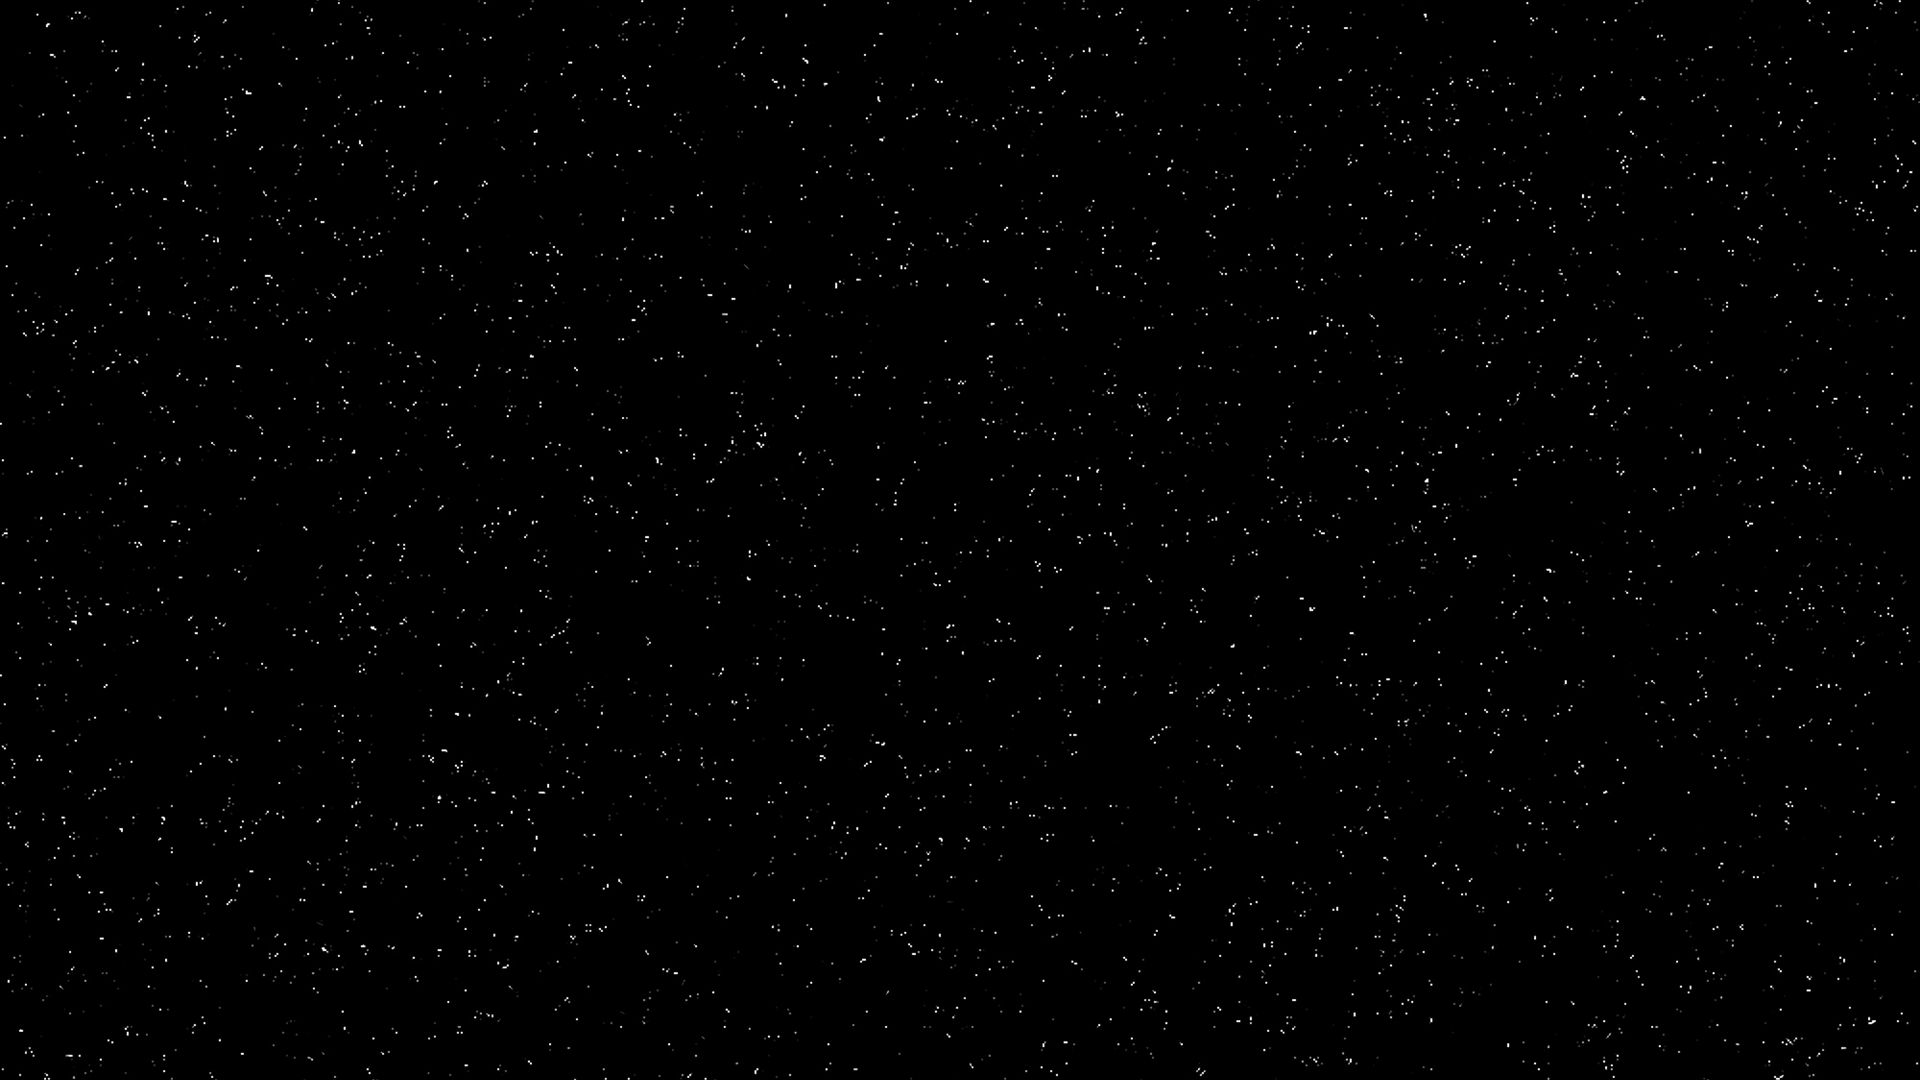
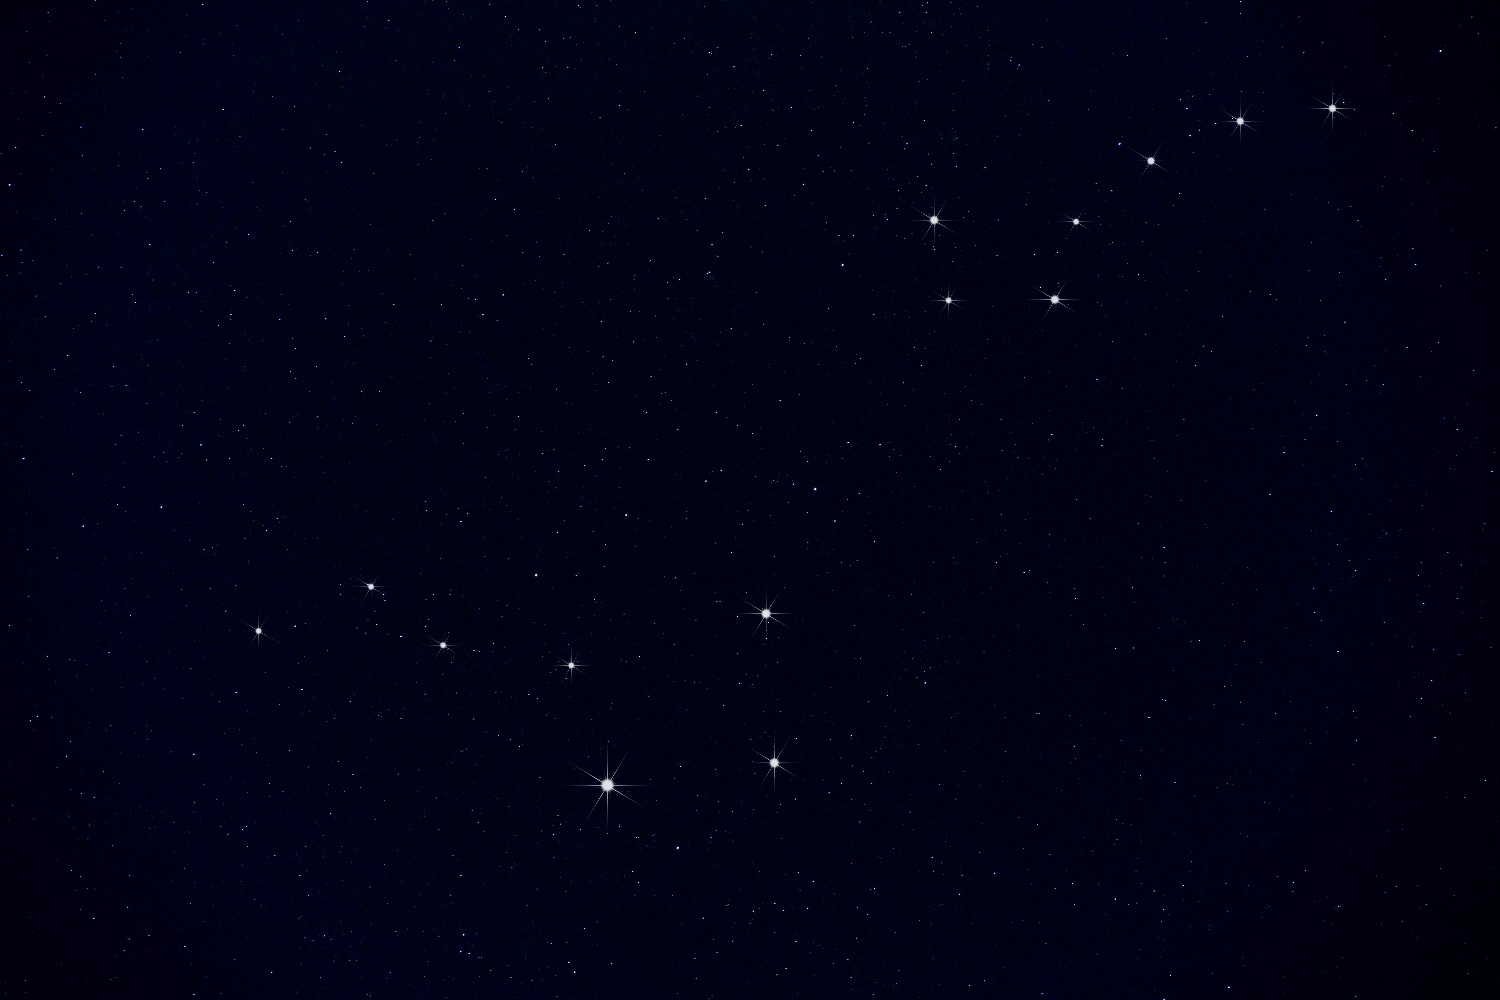
fixed background, added orbit lines and stuff

diff --git a/src/script.js b/src/script.js
@@ -2,7 +2,7 @@ import * as THREE from 'three';
 import { OrbitControls } from 'three/examples/jsm/controls/OrbitControls.js';
 
 // Renderer kurulumu
-const renderer = new THREE.WebGLRenderer();
+const renderer = new THREE.WebGLRenderer({alpha:true});
 renderer.setSize(window.innerWidth, window.innerHeight);
 document.body.appendChild(renderer.domElement);
 
@@ -12,28 +12,23 @@ const camera = new THREE.PerspectiveCamera(
     45,
     window.innerWidth / window.innerHeight,
     0.1,
-    1000
+    5000 // Far clipping distance artırıldı
 );
-camera.position.set(-90, 140, 140);
+camera.position.set(-90, 140, 1000); // Kamera daha uzağa konumlandırıldı
 
 // OrbitControls (Fare ile gezdirme)
 const orbit = new OrbitControls(camera, renderer.domElement);
 orbit.update();
 
-// Arkaplan Yıldızlar
+// Texture Loader
 const textureLoader = new THREE.TextureLoader();
 
-const backgroundTexture = textureLoader.load('./src/img/stars.jpg');
-scene.background = backgroundTexture;
-
-
-backgroundTexture.wrapS = THREE.RepeatWrapping;
-backgroundTexture.wrapT = THREE.RepeatWrapping;
-backgroundTexture.repeat.set(2, 2);  // Tekrar sayısını ayarlar
-
+// Işık Kaynakları
+const ambientLight = new THREE.AmbientLight(0xffffff, 2);
+scene.add(ambientLight);
 
 // Güneş
-const sunGeo = new THREE.SphereGeometry(12, 30, 30);
+const sunGeo = new THREE.SphereGeometry(16, 32, 32);
 const sunMat = new THREE.MeshBasicMaterial({
     map: textureLoader.load('./src/img/sun.jpg')
 });
@@ -52,21 +47,16 @@ function createPlanet(size, texture, position) {
     return planet;
 }
 
-// Işık Kaynakları
-
-const ambientLight = new THREE.AmbientLight(0xffffff, 2);
-scene.add(ambientLight);
-
 
 // Gezegenler
-const mercury = createPlanet(3, './src/img/mercury.jpg', 20);
-const venus = createPlanet(5, './src/img/venus.jpg', 40);
-const earth = createPlanet(6, './src/img/earth.jpg', 60);
-const mars = createPlanet(4, './src/img/mars.jpg', 80);
-const jupiter = createPlanet(10, './src/img/jupiter.jpg', 100);
-const saturn = createPlanet(9, './src/img/saturn.jpg', 120);
-const uranus = createPlanet(7, './src/img/uranus.jpg', 140);
-const neptune = createPlanet(7, './src/img/neptune.jpg', 160);
+const mercury = createPlanet(0.38, './src/img/mercury.jpg', 12);
+const venus = createPlanet(0.95, './src/img/venus.jpg', 22);
+const earth = createPlanet(1, './src/img/earth.jpg', 30);
+const mars = createPlanet(0.53, './src/img/mars.jpg', 45);
+const jupiter = createPlanet(11.2, './src/img/jupiter.jpg', 156);
+const saturn = createPlanet(9.45, './src/img/saturn.jpg', 286);
+const uranus = createPlanet(4.0, './src/img/uranus.jpg', 576);
+const neptune = createPlanet(3.88, './src/img/neptune.jpg', 900);
 
 // Pivotlar (Yörüngesel Dönüş İçin)
 const mercuryPivot = new THREE.Object3D();
@@ -99,27 +89,44 @@ uranusPivot.add(uranus);
 neptunePivot.add(neptune);
 
 // Gezegenleri konumlandır (Güneşten uzaklaştır)
-mercury.position.set(30, 0, 0);
-venus.position.set(60, 0, 0);
-earth.position.set(90, 0, 0);
-mars.position.set(120, 0, 0);
-jupiter.position.set(150, 0, 0);
-saturn.position.set(180, 0, 0);
-uranus.position.set(210, 0, 0);
-neptune.position.set(240, 0, 0);
+mercury.position.set(22, 0, 0);
+venus.position.set(32, 0, 0);
+earth.position.set(40, 0, 0);
+mars.position.set(55, 0, 0);
+jupiter.position.set(166, 0, 0);
+saturn.position.set(296, 0, 0);
+uranus.position.set(586, 0, 0);
+neptune.position.set(910, 0, 0);
+
+/// Ay için yörünge çizgisi oluşturma
+const moonOrbitRadius = 5; // Ay yörünge yarıçapı
+const moonOrbitCurve = new THREE.EllipseCurve(
+    0, 0, // Dünya'nın merkezi
+    moonOrbitRadius, moonOrbitRadius, // Elips yarıçapları (daire için aynı)
+    0, 2 * Math.PI, // Başlangıç ve bitiş açıları
+    false // Saat yönünde çizim
+);
+
+const moonOrbitPoints = moonOrbitCurve.getPoints(100); // Yörünge üzerinde 100 nokta
+const moonOrbitGeometry = new THREE.BufferGeometry().setFromPoints(
+    moonOrbitPoints.map((p) => new THREE.Vector3(p.x, 0, p.y)) // Y'yi XZ düzlemine taşı
+);
+
+const moonOrbitMaterial = new THREE.LineBasicMaterial({ color: 0xffffff });
+const moonOrbitLine = new THREE.Line(moonOrbitGeometry, moonOrbitMaterial);
+earth.add(moonOrbitLine); // Yörüngeyi Dünya'ya ekle
 
 // Ay (Moon) Pivot ve Ay
 const moonPivot = new THREE.Object3D();
-earthPivot.add(moonPivot);  // Ay'ı Dünya'nın pivotuna ekle
+earthPivot.add(moonPivot);
 
-const moon = createPlanet(1.6, './src/img/moon.jpg', 10);  // Ayı oluştur
-moonPivot.add(moon);  // Ay'ı pivotun içine ekle
-moon.position.set(10, 0, 0);  // Ay'ı Dünya'nın yanına yerleştir
+const moon = createPlanet(0.27, './src/img/moon.jpg', moonOrbitRadius);
+moonPivot.add(moon);
 
-earth.add(moonPivot);  // Ay'ı Dünya'ya ekle
+earth.add(moon); // Ay'ı Dünya'ya ekle
 
 // Halka Ekleme
-const ringGeo = new THREE.RingGeometry(10, 20, 32);
+const ringGeo = new THREE.RingGeometry(9, 15, 64);
 const ringMat = new THREE.MeshStandardMaterial({
     map: textureLoader.load('./src/img/saturn_ring.png'),
     side: THREE.DoubleSide,
@@ -127,42 +134,148 @@ const ringMat = new THREE.MeshStandardMaterial({
 });
 const ring = new THREE.Mesh(ringGeo, ringMat);
 ring.rotation.x = -0.5 * Math.PI;
-scene.add(ring);
-ring.position.x = 0;
-
 saturn.add(ring);
+
+
+// Gezegenleri ve isimlerini saklayan bir liste
+const planets = [
+    { name: 'Mercury', object: mercury },
+    { name: 'Venus', object: venus },
+    { name: 'Earth', object: earth },
+    { name: 'Mars', object: mars },
+    { name: 'Jupiter', object: jupiter },
+    { name: 'Saturn', object: saturn },
+    { name: 'Uranus', object: uranus },
+    { name: 'Neptune', object: neptune },
+];
+
+// Gezegenlerin dünya koordinatındaki pozisyonlarını konsola yazdıran fonksiyon
+function logPlanetPositions() {
+    console.clear(); // Konsolu temizler
+    planets.forEach(({ name, object }) => {
+        const worldPosition = new THREE.Vector3();
+        object.getWorldPosition(worldPosition); // Dünya pozisyonunu al
+        console.log(`${name}: x=${worldPosition.x.toFixed(2)}, y=${worldPosition.y.toFixed(2)}, z=${worldPosition.z.toFixed(2)}`);
+    });
+}
+
+// İzleri saklayan bir nesne
+const trails = {};
+
+// İz bırakma için kullanılan malzeme ve geometri
+const trailMaterial = new THREE.LineBasicMaterial({ color: 0xffffff });
+const maxTrailLength = 300; // Maksimum iz uzunluğu
+
+// Gezegenler için iz nesnelerini oluşturma
+planets.forEach(({ name }) => {
+    trails[name] = {
+        positions: [], // İzlerin pozisyonlarını saklar
+        line: new THREE.Line(
+            new THREE.BufferGeometry(),
+            trailMaterial.clone() // Her gezegen için farklı bir malzeme
+        ),
+    };
+    scene.add(trails[name].line); // İzi sahneye ekle
+});
+
+// İzleri güncelleyen fonksiyon
+function updateTrails() {
+    planets.forEach(({ name, object }) => {
+        const worldPosition = new THREE.Vector3();
+        object.getWorldPosition(worldPosition); // Gezegenin global pozisyonunu al
+
+        // Pozisyonu kaydet
+        trails[name].positions.push(worldPosition.clone());
+
+        // Eğer pozisyon sayısı maksimum uzunluğu aşarsa, eski pozisyonları sil
+        if (trails[name].positions.length > maxTrailLength) {
+            trails[name].positions.shift();
+        }
+
+        // İzi güncelle
+        const trailPositions = new Float32Array(
+            trails[name].positions.flatMap((pos) => [pos.x, pos.y, pos.z])
+        );
+        trails[name].line.geometry.setAttribute(
+            'position',
+            new THREE.BufferAttribute(trailPositions, 3)
+        );
+        trails[name].line.geometry.setDrawRange(0, trails[name].positions.length);
+        trails[name].line.geometry.computeBoundingSphere();
+    });
+}
 
 // Animasyon
 function animate() {
-    sun.rotateY(0.002);  // Güneş kendi etrafında döner
-    
-    // Gezegenler kendi eksenlerinde döner
+    sun.rotateY(0.002);
+
     mercury.rotateY(0.004);
     venus.rotateY(0.003);
     earth.rotateY(0.002);
     mars.rotateY(0.0025);
-    moon.rotateY(0.005);  // Ay kendi etrafında döner
+    moon.rotateY(0.005);
     jupiter.rotateY(0.001);
     saturn.rotateY(0.0005);
     uranus.rotateY(0.0003);
     neptune.rotateY(0.0002);
 
-    // Pivotlar (Güneş etrafında yörünge hareketi)
-    mercuryPivot.rotateY(0.01);
-    venusPivot.rotateY(0.008);
-    earthPivot.rotateY(0.005);
-    marsPivot.rotateY(0.004);
-    jupiterPivot.rotateY(0.002);
-    saturnPivot.rotateY(0.001);
-    uranusPivot.rotateY(0.0007);
-    neptunePivot.rotateY(0.0005);
+    mercuryPivot.rotateY(0.015);
+    venusPivot.rotateY(0.012);
+    earthPivot.rotateY(0.01);
+    marsPivot.rotateY(0.008);
+    jupiterPivot.rotateY(0.004);
+    saturnPivot.rotateY(0.002);
+    uranusPivot.rotateY(0.001);
+    neptunePivot.rotateY(0.0008);
 
-    // Ay Dünya etrafında döner
     moonPivot.rotateY(0.03);
+
+    updateTrails(); // İzleri güncelle
 
     renderer.render(scene, camera);
 }
 renderer.setAnimationLoop(animate);
+
+// Kamera için bir pivot oluştur
+const cameraPivot = new THREE.Object3D();
+scene.add(cameraPivot);
+cameraPivot.add(camera);
+
+// Kamera ve kontrol hedefini ayarlayan bir fonksiyon
+function setCameraTarget(targetObject) {
+    const targetPosition = new THREE.Vector3();
+    targetObject.getWorldPosition(targetPosition);
+
+    // Kamera pivotunu hedefin pozisyonuna taşı
+    cameraPivot.position.copy(targetPosition);
+
+    // OrbitControls hedefini güncelle
+    orbit.target.copy(targetPosition);
+    orbit.update();
+}
+
+// Kamera hedeflerini klavye tuşlarıyla değiştirme
+window.addEventListener('keydown', (event) => {
+    switch (event.key) {
+        case '1': setCameraTarget(sun); break;
+        case '2': setCameraTarget(mercury); break;
+        case '3': setCameraTarget(venus); break;
+        case '4': setCameraTarget(earth); break;
+        case '5': setCameraTarget(mars); break;
+        case '6': setCameraTarget(jupiter); break;
+        case '7': setCameraTarget(saturn); break;
+        case '8': setCameraTarget(uranus); break;
+        case '9': setCameraTarget(neptune); break;
+        default: break;
+    }
+});
+
+// Klavye girişlerini dinleyen fonksiyon
+window.addEventListener('keydown', (event) => {
+    if (event.key.toLowerCase() === 'l') { // "L" tuşu için kontrol
+        logPlanetPositions();
+    }
+});
 
 // Ekran Yeniden Boyutlandırma
 window.addEventListener('resize', function () {

diff --git a/index.html b/index.html
@@ -9,6 +9,10 @@
             margin: 0;
             overflow: hidden;
         }
+
+        body {
+          background-image: url("src/img/stars.jpg");
+        }
     </style>
 
     <!-- Three.js ve OrbitControls CDN'den import ediliyor -->
